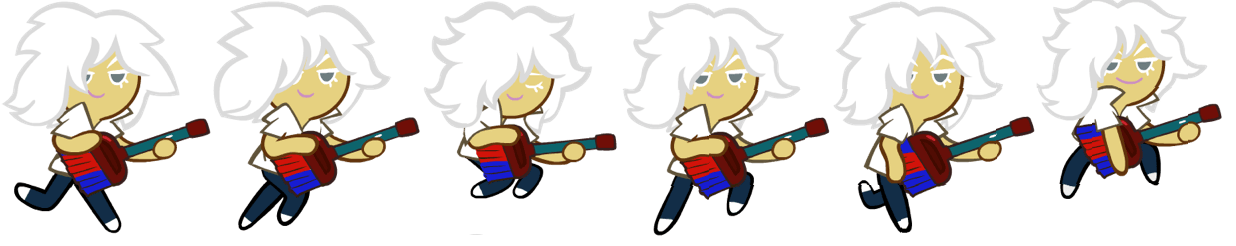
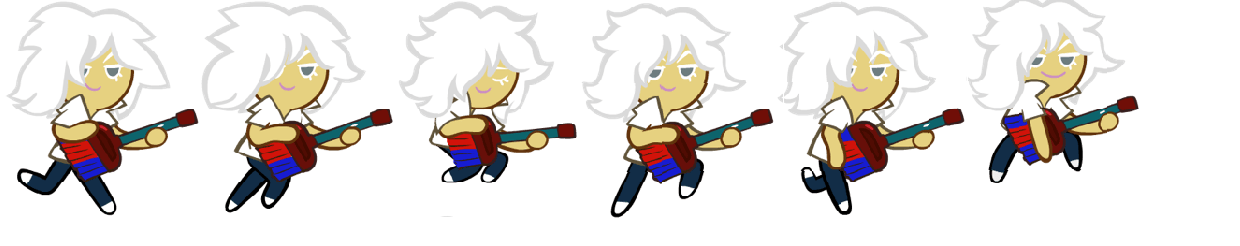
run
- 스프라이트 수정

diff --git a/play_state.py b/play_state.py
@@ -64,10 +64,10 @@ class Character:
         self.image = load_image('run.png')
 
     def update(self):
-        self.frame = (self.frame + 1) % 6
+        self.frame = (self.frame + 1) % 2
 
     def draw(self):
-        self.image.clip_draw(self.frame*220, 0, 400, 250, self.x, self.y)
+        self.image.clip_draw(self.frame*220, 0, 400, 260, self.x, self.y)
 
 
 

diff --git a/mygame_test.py b/mygame_test.py
@@ -2,7 +2,9 @@ import pico2d
 import game_framework
 
 import title_state
+import play_state
 
 pico2d.open_canvas()
-game_framework.run(title_state)
+#game_framework.run(title_state)
+game_framework.run(play_state)
 pico2d.close_canvas()
